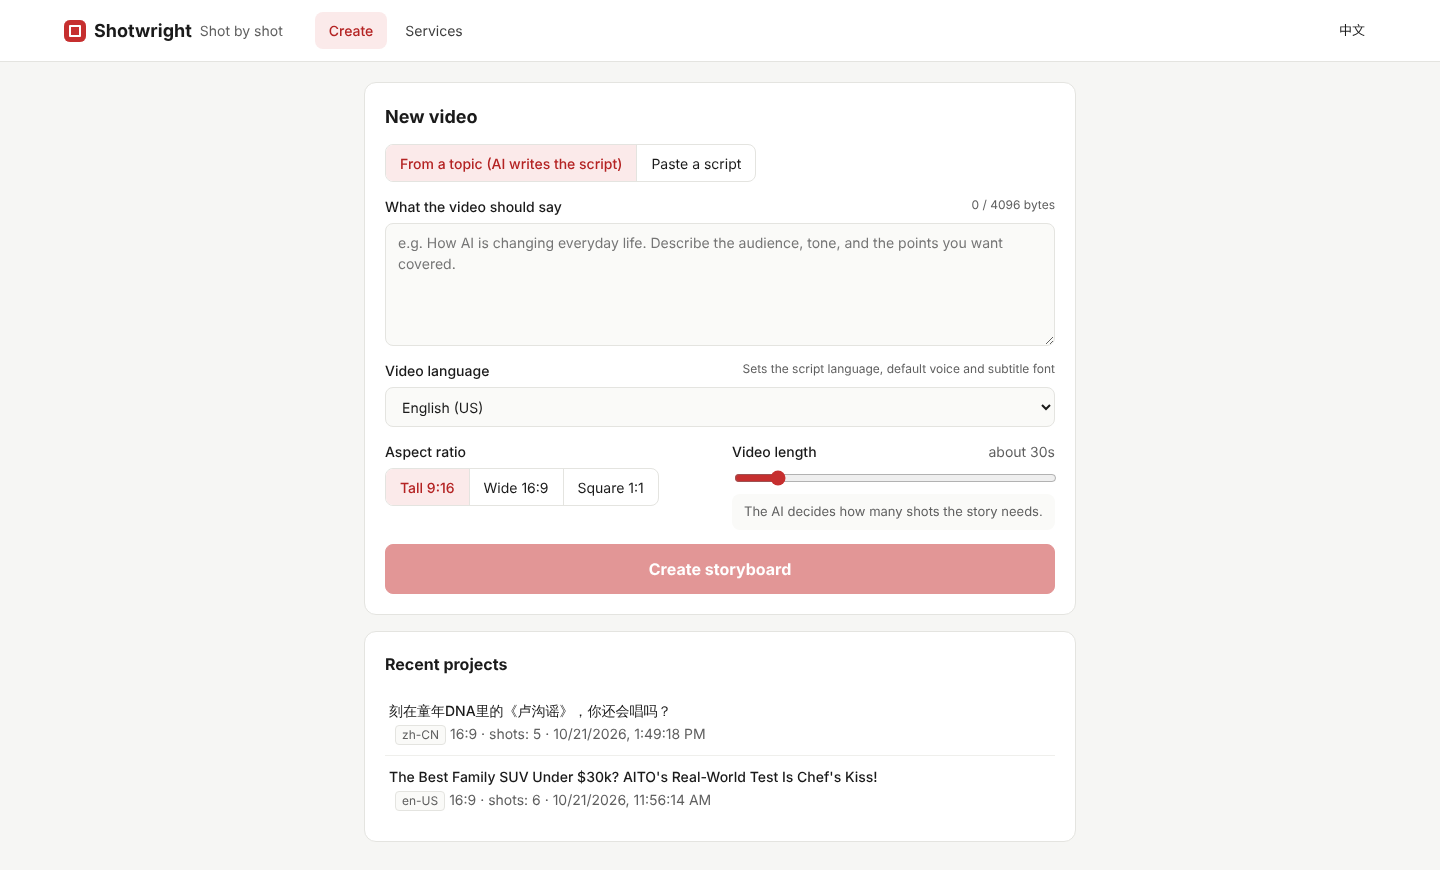
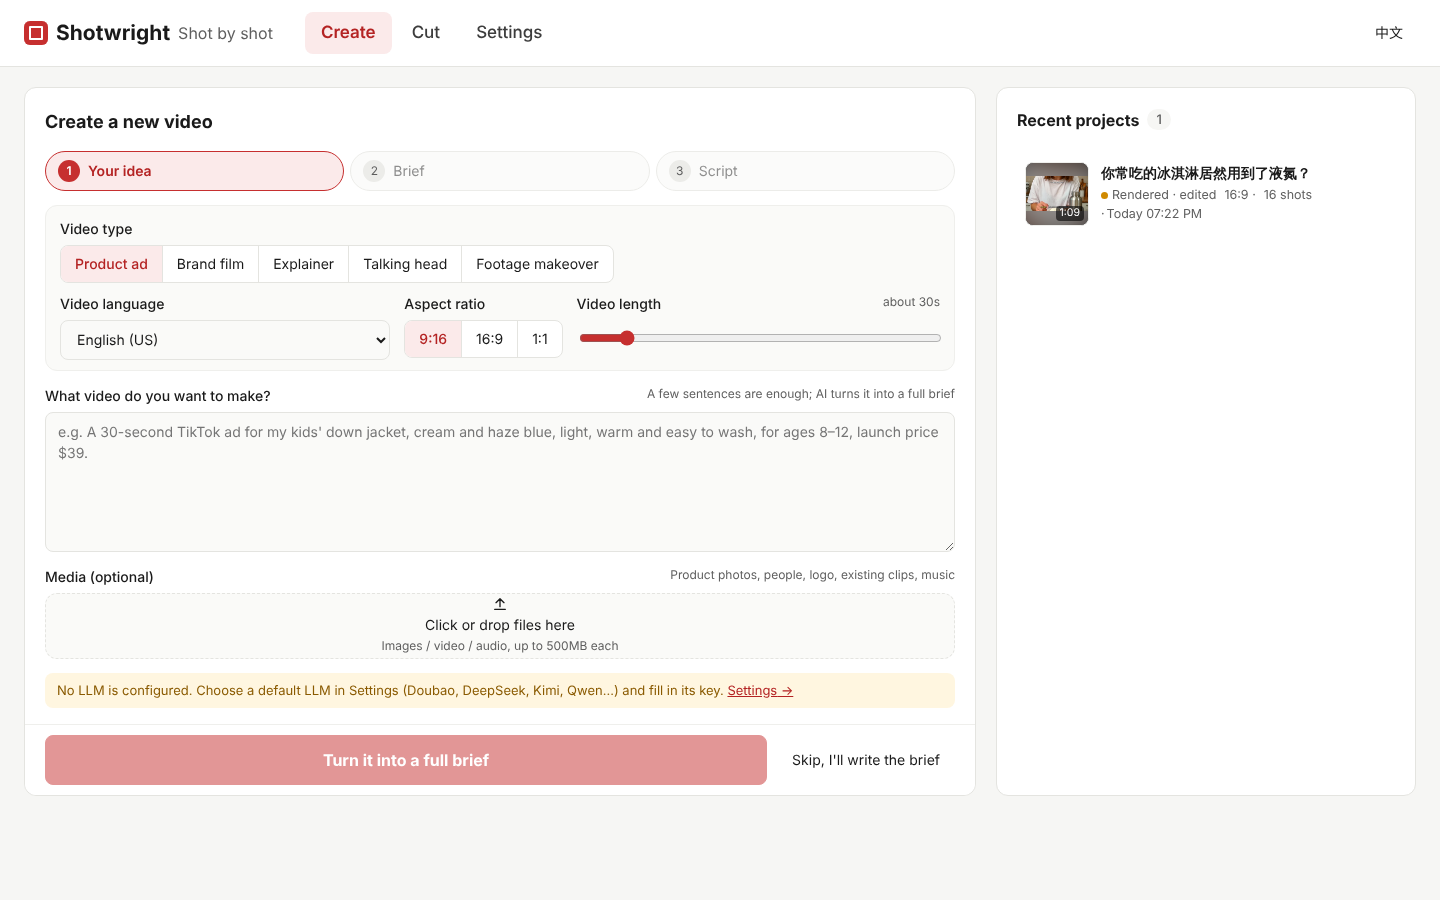
文档：更新截图和演示动图，补上按画面剪、剪辑任务列表和识别模型下载
README 中英文：剪辑一节写明两种剪法（按画面剪、按说的话剪）和单独的任务列表，界面一节加上剪辑页和服务设置的截图，创作新视频、分镜编辑、镜头卡片的说明按新界面重写。截图和演示动图按新界面重新录制（分步编辑、剪辑页、服务设置）。ARCHITECTURE 补 Project.origin、按画面剪的流程、本地识别改用 ffmpeg 解码和模型下载的回退顺序；ROADMAP 补按画面剪。

diff --git a/README.en.md b/README.en.md
@@ -17,7 +17,7 @@ Shotwright is built around the *shot*. The script is split into shots, and each 
 - **Storyboard editing**: split a script into shots sentence by sentence, or write a video brief (audience, tone, key points; up to 4096 bytes), pick a length, and let an LLM write the script, decide how many shots it needs, and suggest search terms and visual prompts for each shot. An existing video can be **duplicated into a new project** to keep editing, carrying its assets, settings and render cache along.
 - **Mixed visuals**: in one video, some shots can use Pixabay / Pexels / Coverr footage, some AI video (Seedance, Wan, Kling, MiniMax Hailuo, or Veo, Vidu and others via fal.ai, chosen per shot) or AI images (Seedream with a slow Ken Burns push-in), and some your own uploads. An AI image can also serve as the first frame of an AI video. A shot can hold **several clips played in sequence**, and candidates can be deleted. Under each shot, a hint shows how many candidates the other sources have, with one click to switch, so switching sources never loses footage you already generated.
 - **Footage import and in-shot editing**: import footage shot on a phone and have it split into shots at scene changes; in each shot you can drag the in and out points, split it or merge it with the next. When a clip is shorter than its shot it is slowed down a little (to no less than 0.8×) and then holds its last frame, instead of jumping back to the start. The clip's own sound can be kept at an adjustable volume and is lowered automatically under the voice-over. When switching between portrait and landscape you can choose what part of the frame to keep, or keep the whole subject over a blurred fill.
-- **Cut an existing video by its text**: upload a talking-head, explainer or product video under "Cut" in the top bar and it transcribes what is said (local faster-whisper — free, and the footage never leaves your machine — or an OpenAI-compatible cloud service). Click a word to jump and play, select a passage and delete it to cut the video with it; one click ticks off filler words (um, uh, 嗯, 啊), "AI retakes" finds sentences that were restarted or abandoned halfway, and long pauses can be squeezed. Double-click to fix a mis-transcribed word. Generate original-sound shots from the result: no re-voicing, subtitles follow the word timings, the removed parts are skipped inside each shot, and subtitles, music, titles and translated voice-over versions all work as usual.
+- **Cut an existing video**: "Cut" in the top bar is separate from "Create" and has its own task list. There are two ways to cut: for footage without speech (product shots, b-roll, montage material) choose "Edit by scenes", which skips speech recognition and splits the video at scene changes, several videos at a time; for talking-head, explainer and live-selling videos choose "Edit by what is said": upload the video and it transcribes what is said (local faster-whisper — free, and the footage never leaves your machine — or an OpenAI-compatible cloud service), with progress shown while the model downloads and while it transcribes. Click a word to jump and play, select a passage and delete it to cut the video with it; one click ticks off filler words (um, uh, 嗯, 啊), "AI retakes" finds sentences that were restarted or abandoned halfway, and long pauses can be squeezed. Double-click to fix a mis-transcribed word. Generate original-sound shots from the result: no re-voicing, subtitles follow the word timings, the removed parts are skipped inside each shot, and subtitles, music, titles and translated voice-over versions all work as usual.
 - **Video quality**: pick a video type on the home page (product ad, brand film, explainer, talking head, footage makeover) to get a brief template and writing tips, with a check for unfilled placeholders before you submit. The storyboard starts with a look (subject appearance, setting, style, taboos, color grade); every shot gets a 60–120-word description, a camera move and a continuity note, and the storyboard is self-checked and rewritten once if needed. At generation time you can create keyframes first, several takes at once, or extend shots longer than the model allows from the last frame. With a vision model configured, results are checked for product drift, stock candidates are ranked and the final video is scanned for flaws. A pre-render check lists things worth fixing, and `shotwright bench` runs a fixed quality benchmark compared with the previous batch.
 - **Finishing**: export normalizes loudness to -14 LUFS and ducks the music under the voice with a fade in and out. Optionally cuts snap to the music's beat, transition whooshes and ambience can be layered in, the whole video can share one color grade, and delivery targets (Douyin, Kuaishou, Channels, Xiaohongshu, Shorts, Bilibili) set the encoding and keep subtitles and overlays inside the safe area.
 - **Product ads**: a project-level library of product shots, people, logos and style images used as references for generation; edit a clip with a prompt (video-to-video); overlay selling points, prices and logos separately from the subtitles, with transitions between shots; overlay text is translated along with the language versions.
@@ -39,25 +39,29 @@ Shotwright is built around the *shot*. The script is split into shots, and each 
 
 ## Screenshots
 
-**New video**: write a brief, pick the language, aspect ratio and length, and the AI writes the script and decides how many shots it needs.
+**Create a new video**: describe the idea in a few sentences, the AI turns it into a full brief from the template for the video type, then writes an editable script, and the storyboard is generated from that script; your projects are listed on the right.
 
 ![New video](docs/images/en-home.png)
 
-**Storyboard editor**: each shot picks its own visual source; the live preview on the right shows the subtitles, and only changed shots are re-rendered.
+**Storyboard editor**: five steps in production order — ① Materials (subject reference images and looks, brand and style references) → ② Visuals → ③ Voice & subtitles → ④ Music & SFX → ⑤ Titles & text. AI visuals can only be generated once every subject has its reference images and look and the checklist is confirmed. Each shot picks its own visual source; the live preview on the right shows the subtitles, and only changed shots are re-rendered.
 
 ![Storyboard editor](docs/images/en-editor.png)
 
-**Mixed visuals in one video**: the upper shot uses stock footage, the lower one an AI image; under each shot a hint shows how many candidates the other sources have, one click to switch.
+**Shot card**: every shot picks its own visual source (stock, AI video, AI image, upload, solid colour), and one video can mix them; AI video prompts are built from the shared look, you can draft keyframes first, generate several takes at once and pick draft or final resolution, and every generation is kept as a version; shot type, caption title, camera move and AI rewrite sit under "More".
 
-![Stock search and AI image](docs/images/en-shots.png)
+![Shot card](docs/images/en-shots.png)
 
 **Audio, subtitles and language versions**: switch the video language and voice; upload background music or find it automatically and preview the candidates; translate the video into another language in one click.
 
 ![Audio, subtitles and language versions](docs/images/en-audio.png)
 
-**Cut an existing video**: upload footage on the "Cut" page, and once it is transcribed, delete words in the text to cut the video with them, tick off fillers and squeeze pauses, then generate original-sound shots straight from it.
+**Cut an existing video**: with "Edit by what is said", click a word to play from there; struck-through words are deleted fillers and retakes and are skipped during playback; then generate original-sound shots. For footage without speech, "Edit by scenes" splits it into shots directly.
 
-**Settings**: fill in each service's key, model and endpoint in the page; saving writes back to `config.toml` and takes effect immediately, and keys are shown only as their last four characters.
+![Cut by text](docs/images/en-cut.png)
+
+**Settings**: fill in each service's key, model and endpoint in the page; saving writes back to `config.toml` and takes effect immediately, keys are shown only as their last four characters, and LLMs, AI video and speech recognition have a "Test connection" button.
+
+![Settings](docs/images/en-settings.png)
 
 ## Hardware requirements
 

diff --git a/docs/ROADMAP.md b/docs/ROADMAP.md
@@ -177,6 +177,7 @@ v0.3 遗留，随 v0.4 处理：
 剪辑与素材准备：
 
 - [x] 剪辑页（按文字剪）：上传已有视频 → 语音识别（本地 faster-whisper 或 OpenAI 兼容云端）→ 在文稿里删词、一键勾掉语气词、AI 去口误、压缩长停顿 → 生成原声分镜；删掉的部分记在 `ShotVisual.skips`，渲染时跳过，字幕按逐词时间对齐
+- [x] 剪辑页「按画面剪」：没有人声的素材不识别语音，按画面变化切镜头，可一次导入几段；剪辑和创作的任务列表分开
 - [x] 素材准备清单：主体备好外观和参考图才能确认，确认前不拦素材库检索和上传、但拦住 AI 画面收费生成；确认后改设定会提示哪些镜头可能不一致；主体可以标记「不需要参考图」
 
 交付与效率：
